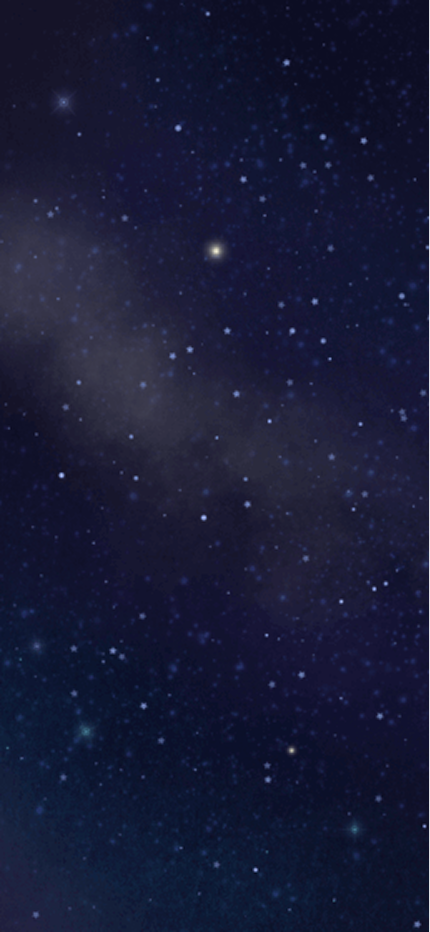
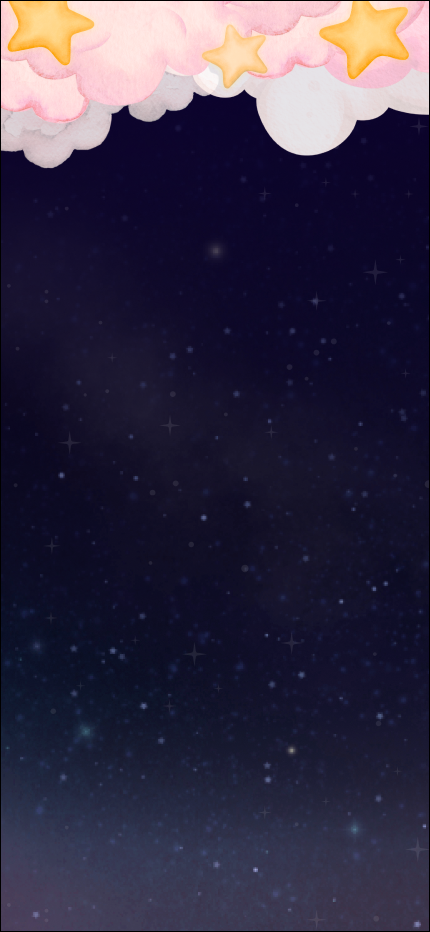
feat: add starglobe

diff --git a/src/components/Starglobe/SavePicturePrepare.tsx b/src/components/Starglobe/SavePicturePrepare.tsx
@@ -1,0 +1,150 @@
+import ImageHd from "@/assets/starglobe/bgstarglobe.png";
+import ESC from "@/assets/landing/esc_hd.webp";
+import GearFest from "@/assets/landing/gearfest_hd.webp";
+import KNEng from "@/assets/landing/tueng_hd.webp";
+import FinishGlobeView from "@/components/Starglobe/FinishGlobeView";
+import Navbar from "@/components/Navbar/Navbar";
+import { useRef, useState } from "react";
+import html2canvas from "html2canvas";
+
+const SavePicturePrepare = () => {
+  const contentRef = useRef<HTMLDivElement>(null);
+  const [title, setTitle] = useState<string>("Title");
+  const handleSaveAsImage = async () => {
+    if (!contentRef.current) return;
+    try {
+      const elementsToExcludeDisplay = contentRef.current.querySelectorAll(
+        ".exclude-from-screenshot",
+      );
+      elementsToExcludeDisplay.forEach((el) => {
+        (el as HTMLElement).style.display = "none";
+      });
+
+      const elementsToExcludeOpacity = contentRef.current.querySelectorAll(
+        ".exclude-from-screenshot2",
+      );
+      elementsToExcludeOpacity.forEach((el) => {
+        (el as HTMLElement).style.opacity = "0";
+      });
+      const elementsToIncludeDisplay = contentRef.current.querySelectorAll(
+        ".include-for-screenshot",
+      );
+      elementsToIncludeDisplay.forEach((el) => {
+        (el as HTMLElement).style.display = "block";
+      });
+
+      await html2canvas(contentRef.current, { useCORS: true }).then(
+        (canvas) => {
+          const image = canvas.toDataURL("image/png", 1.5);
+
+          const a = document.createElement("a");
+          a.href = image;
+          a.download = "gear_festival_2025.png";
+          a.click();
+        },
+      );
+
+      elementsToExcludeDisplay.forEach((el) => {
+        (el as HTMLElement).style.display = "";
+      });
+
+      elementsToExcludeOpacity.forEach((el) => {
+        (el as HTMLElement).style.opacity = "";
+      });
+      elementsToIncludeDisplay.forEach((el) => {
+        (el as HTMLElement).style.display = "none";
+      });
+    } catch (error) {
+      console.error("Failed to capture screenshot", error);
+    }
+  };
+  return (
+    <div ref={contentRef} className="h-full w-full">
+      <img src={ImageHd.src} className="absolute top-0" />
+      <Navbar />
+      <div className="absolute top-0 right-0 left-0 flex h-full flex-col items-center">
+        <div className="mt-4 flex w-auto items-center justify-center gap-1.5">
+          <img
+            src={ESC.src}
+            alt="ESC"
+            className="exclude-from-screenshot h-[65px] w-[65px]"
+          />
+          <img
+            src={GearFest.src}
+            alt="GearFest"
+            className="h-[98px] w-[98px]"
+          />
+          <img
+            src={KNEng.src}
+            alt="KNEng"
+            className="exclude-from-screenshot h-[55px] w-[55px]"
+          />
+        </div>
+
+        <div className="absolute top-[150px] left-1/2 flex w-full -translate-x-1/2 flex-col items-center">
+          <h1
+            id="title-display"
+            className="mercy-font mb-[37px] text-center text-[28px] text-white"
+          >
+            {title}
+          </h1>
+
+          <div className="relative mb-[37px] h-[295.31px] w-[295.31px]">
+            <FinishGlobeView />
+          </div>
+          <p className="include-for-screenshot font-petit hidden w-full text-center text-[32px] text-white">
+            Starry Playground
+          </p>
+
+          <div className="include-for-screenshot mt-16 hidden">
+            <p className="font-baskervville text-center text-white">
+              gearfest2025.com
+            </p>
+            <div>
+              <img src={ESC.src} alt="ESC" className="h-[65px] w-[65px]" />
+              <img src={KNEng.src} alt="KNEng" className="h-[55px] w-[55px]" />
+            </div>
+          </div>
+          <div className="exclude-from-screenshot flex w-[347px] flex-col items-start gap-4">
+            <div className="w-full text-left">
+              <p className="font-taviraj mb-1 text-2xl text-white">Title</p>
+              <input
+                id="title-input"
+                type="text"
+                onChange={(e) => setTitle(e.target.value)}
+                placeholder="Enter your memory globe title"
+                className="w-full border-b border-white bg-transparent px-2 pb-1 text-left text-lg text-white focus:outline-none"
+              />
+            </div>
+
+            <div className="flex w-full flex-col items-center gap-y-[12px]">
+              <button
+                onClick={handleSaveAsImage}
+                className="font-mercy h-[39px] w-full cursor-pointer rounded-full border-2 border-white text-center text-[20px] text-white transition-all duration-300 hover:scale-110 active:scale-105"
+                style={{
+                  boxShadow: "0 0 10px 2px #E2C7E8",
+                  textShadow: "0 0 10px #E2C7E8",
+                }}
+              >
+                Save a picture
+              </button>
+
+              <a
+                href="/"
+                className="font-mercy h-[39px] w-full cursor-pointer rounded-full border-2 border-white text-center text-[20px] leading-[39px] text-white transition-all duration-300 hover:scale-110 active:scale-105"
+                style={{
+                  boxShadow: "0 0 10px 2px #E2C7E8",
+                  textShadow: "0 0 10px #E2C7E8",
+                }}
+              >
+                Back to home page
+              </a>
+            </div>
+          </div>
+        </div>
+      </div>
+    </div>
+  );
+};
+
+export default SavePicturePrepare;

diff --git a/src/components/Starglobe/Test.tsx b/src/components/Starglobe/Test.tsx
@@ -1,0 +1,41 @@
+import { useRef } from "react";
+import html2canvas from "html2canvas";
+import SavePicturePrepare from "./SavePicturePrepare";
+import ImageHd from "@/assets/onsite/bg-onsite_hd.webp";
+
+const Test = () => {
+  const contentRef = useRef<HTMLDivElement>(null);
+
+  const handleSaveAsImage = async () => {
+    if (!contentRef.current) return;
+
+    try {
+      await html2canvas(contentRef.current).then((canvas) => {
+        const image = canvas.toDataURL("image/png", 1.5);
+
+        const a = document.createElement("a");
+        a.href = image;
+        a.download = "starglobe_gear_festival_2025.png";
+        a.click();
+      });
+    } catch (error) {
+      console.error("Failed to capture screenshot", error);
+    }
+  };
+
+  return (
+    <div ref={contentRef} className="h-[932px] w-[430px]">
+      {/* <img
+        src={ImageHd.src}
+        alt="background"
+        className="top-0 -z-10 h-full w-full bg-red-500 object-cover"
+      /> */}
+      <SavePicturePrepare />
+      <button className="absolute top-1/2 left-1/2" onClick={handleSaveAsImage}>
+        Save a picture
+      </button>
+    </div>
+  );
+};
+
+export default Test;

diff --git a/src/components/Navbar/Navbar.tsx b/src/components/Navbar/Navbar.tsx
@@ -58,7 +58,7 @@ const Navbar = ({ className = "" }) => {
 
   return (
     <nav
-      className={`fixed top-0 z-[40] mx-auto flex w-full max-w-[430px] items-center justify-between ${className}`}
+      className={`exclude-from-screenshot fixed top-0 z-[40] mx-auto flex w-full max-w-[430px] items-center justify-between ${className}`}
     >
       <button
         onClick={toggleNavbar}

diff --git a/src/styles/global.css b/src/styles/global.css
@@ -42,6 +42,12 @@
   box-shadow: 0px 0px 10px #fff2a9;
 }
 
+@layer base {
+  img {
+    @apply inline-block;
+  }
+}
+
 @theme {
   --font-judson: "Judson", serif;
   --font-mitr: "Mitr", serif;
